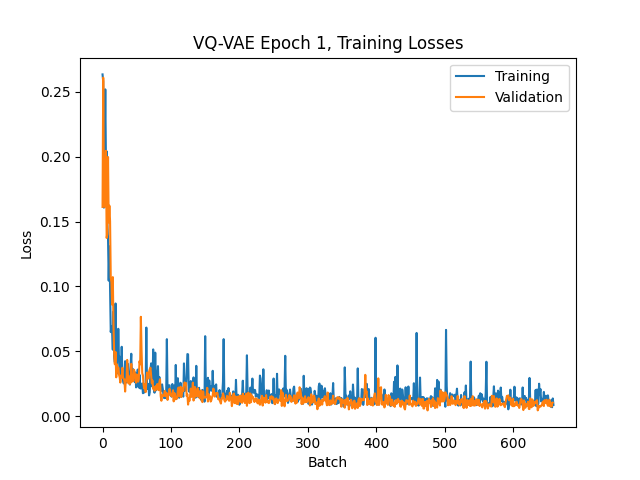
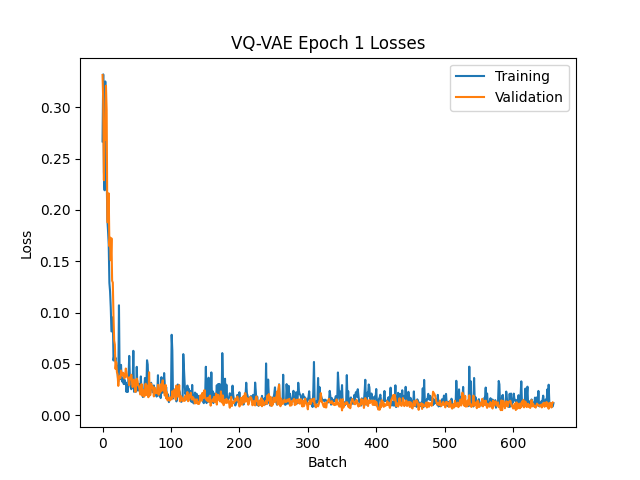
added config.py to store model parameters moved testing from predict.py to train.py predict.py now plots test images vs reconstruction

diff --git a/recognition/VQ-VAE-s4578267/predict.py b/recognition/VQ-VAE-s4578267/predict.py
@@ -5,16 +5,24 @@ import time
 
 import modules
 import dataset
+from config import vqvae_config
 
 import matplotlib.pyplot as plt
 
-test_dir = "recognition/VQ-VAE-2-s4578267/data/keras_slices_data/keras_slices_test"
+test_dir = "recognition/VQ-VAE-s4578267/data/keras_slices_data/keras_slices_test"
 
 test_set = dataset.HipMRIDataset(X_dir=test_dir, earlyStop=False)
 test_loader = torch.utils.data.DataLoader(test_set, batch_size=1, shuffle=True)
 
 device = torch.device("cuda" if torch.cuda.is_available() else "cpu")
-model = modules.VQVAE(in_channels=1, out_channels=[128,256,512], latent_dim=64, kernel_size=3, image_size=test_set[0].shape[1:], num_embeds=32).to(device)
+model = modules.VQVAE(
+    in_channels=vqvae_config.in_channels,
+    out_channels=vqvae_config.out_channels, 
+    latent_dim=vqvae_config.latent_dim, 
+    kernel_size=vqvae_config.kernel_size, 
+    image_size=test_set[0].shape[1:], 
+    num_embeds=vqvae_config.num_embeds
+    ).to(device)
 
 path = "training/VQVAE_model.pth"
 
@@ -23,49 +31,40 @@ model.load_state_dict(model_state_dict)
 
 # Test model
 ssim_score = ssim(data_range=1.0).to(device)
-test_scores = []
-test_losses = []
 
 num_images = 10
 j = 0
 
 model.eval()
-print("> Testing Started")
-start_time = time.time()
 
-for i, imgs in enumerate(test_loader):
-
+# Generate images of predicted vs target
+for i in range(num_images):
+    imgs = next(iter(test_loader))
     images = imgs.to(device).float()
 
     # Forward
     output = model(images)
 
     # Calculate Loss
-    loss = model.loss_function(output, images, 1.0)
-    test_losses.append(loss.item())
+    loss = model.loss_function(output, images, 1.0).item()
 
     # Calculate SSIM
-    test_scores.append(ssim_score(output, images).item())
+    score = (ssim_score(output, images).item())
 
     # plot test input and reconstruction
-    if (i+1) % (len(test_loader) // 10) == 0:
-        with torch.no_grad():
-            fig, axes = plt.subplots(1,2)
+    with torch.no_grad():
+        fig, axes = plt.subplots(1,2)
 
-            axes[0].imshow(images.cpu().squeeze())
-            axes[0].set_title("Original")
-            axes[0].axis('off')
+        axes[0].imshow(images.cpu().squeeze())
+        axes[0].set_title("Original")
+        axes[0].axis('off')
 
-            axes[1].imshow(output.cpu().squeeze())
-            axes[1].set_title("Reconstruction")
-            axes[1].axis('off')
+        axes[1].imshow(output.cpu().squeeze())
+        axes[1].set_title("Reconstruction")
+        axes[1].axis('off')
 
-            plt.suptitle(f"VQ-VAE Test Sample {j+1}")
-            fig.text(0.5, 0.01, f"SSIM: {test_scores[-1]:.3f}, Loss: {test_losses[-1]:.5f}", ha='center', va='bottom')
-            plt.savefig(f"testing/test_images_{j+1}.png")
-            plt.close()
-            j += 1
-
-end_time = time.time()
-print(f"Testing took {(end_time - start_time):.3f} seconds")
-print(f"Average loss: {(sum(test_losses) / len(test_losses)):.5f}, Average SSIM score: {(sum(test_scores) / len(test_scores)):.3f}")
+        plt.suptitle(f"VQ-VAE Test Sample {j+1}")
+        fig.text(0.5, 0.01, f"SSIM: {score:.3f}, Loss: {loss:.5f}", ha='center', va='bottom')
+        plt.savefig(f"testing/test_images_{j+1}.png")
+        plt.close()
+        j += 1

diff --git a/recognition/VQ-VAE-s4578267/train.py b/recognition/VQ-VAE-s4578267/train.py
@@ -5,6 +5,7 @@ import time
 
 import modules
 import dataset
+from config import vqvae_config
 
 import matplotlib.pyplot as plt
 
@@ -16,8 +17,9 @@ beta = 1.0
 
 val_batch_size = 1
 
-train_dir = "recognition/VQ-VAE-2-s4578267/data/keras_slices_data/keras_slices_train"
-val_dir = "recognition/VQ-VAE-2-s4578267/data/keras_slices_data/keras_slices_validate"
+train_dir = "recognition/VQ-VAE-s4578267/data/keras_slices_data/keras_slices_train"
+val_dir = "recognition/VQ-VAE-s4578267/data/keras_slices_data/keras_slices_validate"
+test_dir = "recognition/VQ-VAE-s4578267/data/keras_slices_data/keras_slices_test"
 
 train_set = dataset.HipMRIDataset(X_dir=train_dir, earlyStop=False)
 train_loader = torch.utils.data.DataLoader(train_set, batch_size=batch_size, shuffle=True)
@@ -25,13 +27,26 @@ train_loader = torch.utils.data.DataLoader(train_set, batch_size=batch_size, shu
 val_set = dataset.HipMRIDataset(X_dir=val_dir)
 val_loader = torch.utils.data.DataLoader(val_set, batch_size=val_batch_size, shuffle=True)
 
+test_set = dataset.HipMRIDataset(X_dir=test_dir, earlyStop=False)
+test_loader = torch.utils.data.DataLoader(test_set, batch_size=1, shuffle=True)
+
 device = torch.device("cuda" if torch.cuda.is_available() else "cpu")
 
-model = modules.VQVAE(in_channels=1, out_channels=[128,256,512], latent_dim=64, kernel_size=3, image_size=train_set[0].shape[1:], num_embeds=32).to(device)
+model = modules.VQVAE(
+    in_channels=vqvae_config.in_channels,
+    out_channels=vqvae_config.out_channels, 
+    latent_dim=vqvae_config.latent_dim, 
+    kernel_size=vqvae_config.kernel_size, 
+    image_size=train_set[0].shape[1:], 
+    num_embeds=vqvae_config.num_embeds
+    ).to(device)
 optimizer = torch.optim.Adam(model.parameters(), lr=learning_rate)
 
+###
+###
+###
 
-
+# Train and validate model
 model.train()
 print("> Training Started")
 start_time = time.time()
@@ -91,6 +106,38 @@ for epoch in range(epochs):
 
 end_time = time.time()
 print(f"Training took {(end_time - start_time):.3f} seconds")
+
+###
+###
+###
+
+# Test model
+ssim_score = ssim(data_range=1.0).to(device)
+test_scores = []
+test_losses = []
+
+model.eval()
+print("\n> Testing Started")
+start_time = time.time()
+
+for i, imgs in enumerate(test_loader):
+
+    images = imgs.to(device).float()
+
+    # Forward
+    output = model(images)
+
+    # Calculate Loss
+    loss = model.loss_function(output, images, 1.0)
+    test_losses.append(loss.item())
+
+    # Calculate SSIM
+    test_scores.append(ssim_score(output, images).item())
+
+end_time = time.time()
+print(f"Testing took {(end_time - start_time):.3f} seconds")
+print(f"Average loss: {(sum(test_losses) / len(test_losses)):.5f}, Average SSIM score: {(sum(test_scores) / len(test_scores)):.3f}")
+
 
 path = "training/VQVAE_model.pth"
 

diff --git a/recognition/VQ-VAE-s4578267/config.py b/recognition/VQ-VAE-s4578267/config.py
@@ -1,0 +1,10 @@
+
+class VQVAEConfig:
+    def __init__(self) -> None:
+        self.in_channels = 1
+        self.out_channels = [128,256,512]
+        self.latent_dim = 64
+        self.kernel_size = 3
+        self.num_embeds = 32
+
+vqvae_config = VQVAEConfig()
